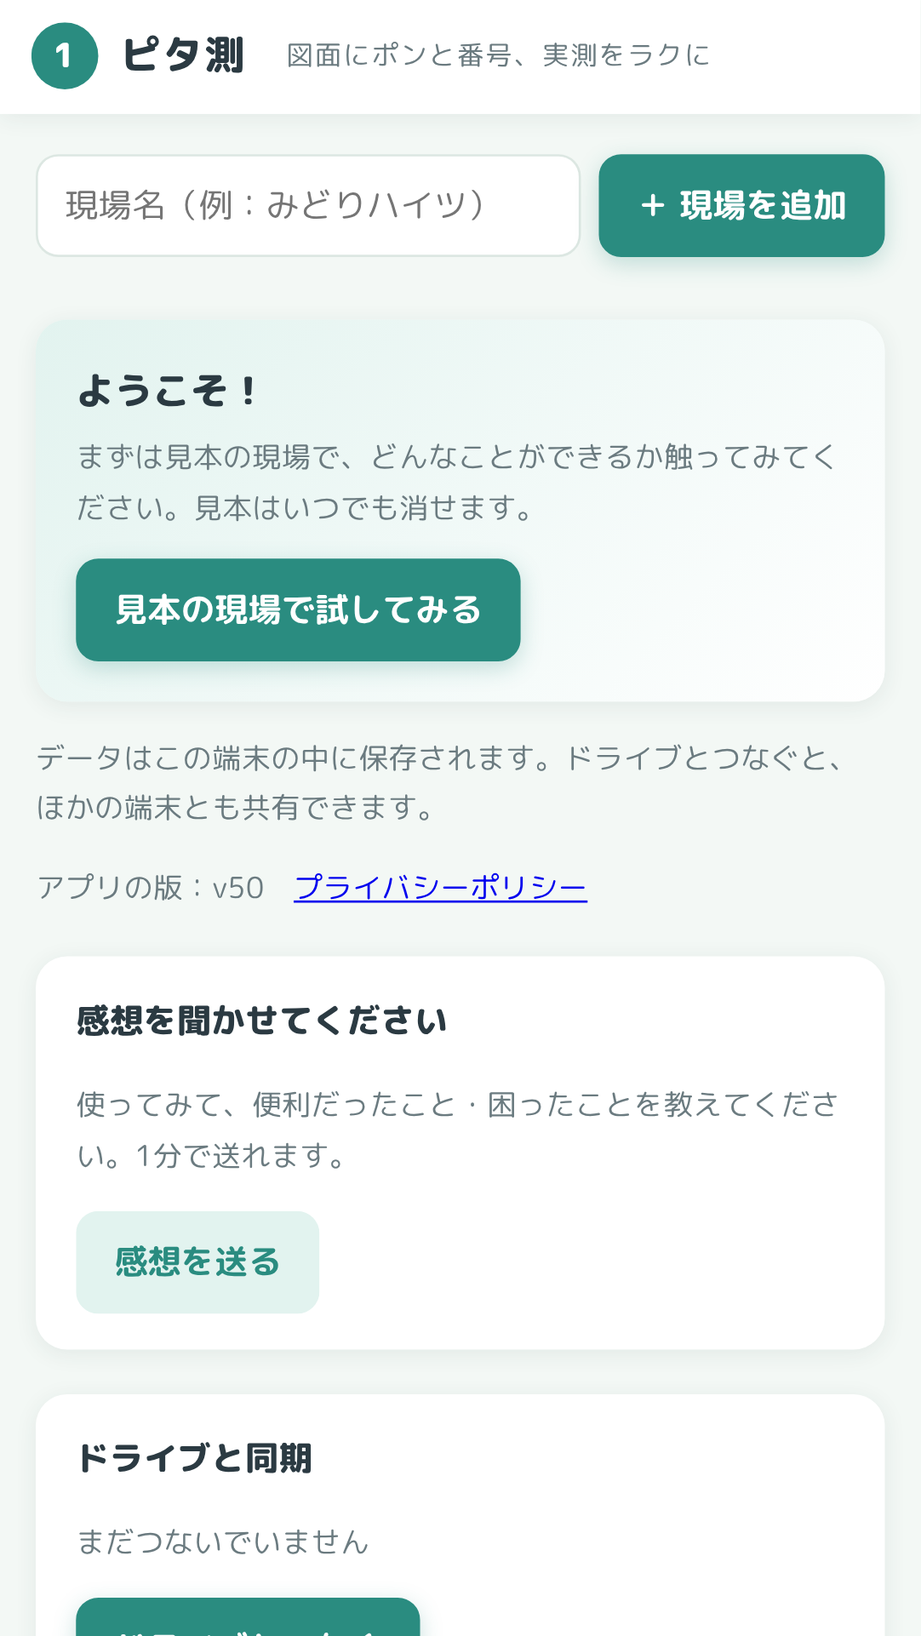
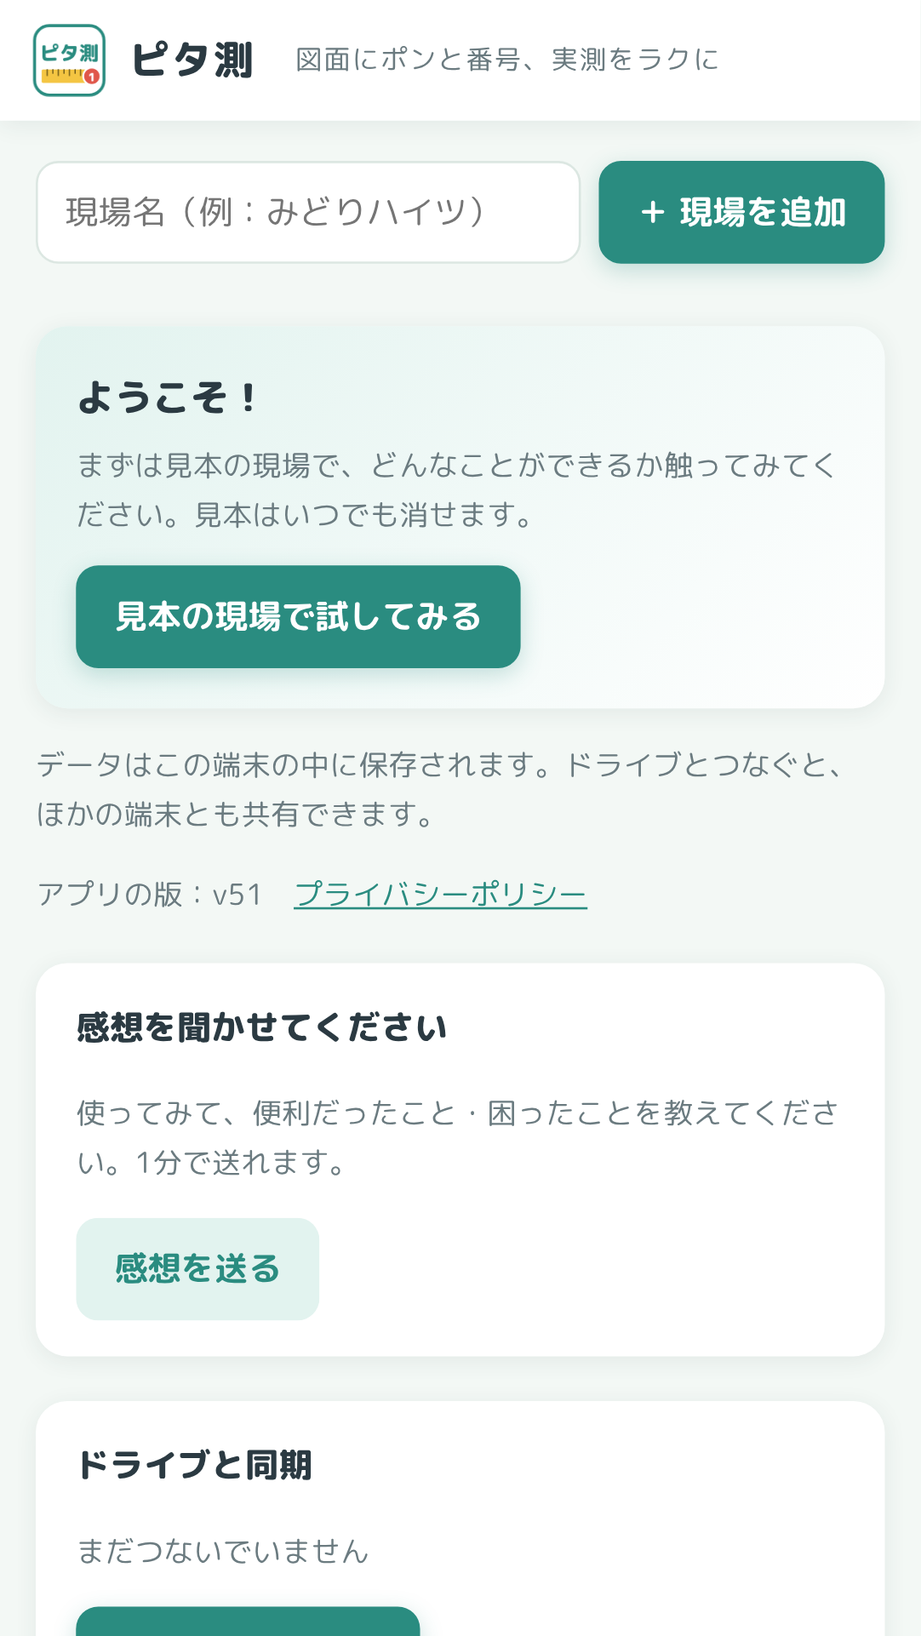
新しいアイコン（ピタ測の文字＋定規＋①）に変更。Google Play公開の準備：ストア用の画像・説明文・データの扱い・公開の手順書（play/）、プライバシーポリシーへのリンク（v51）
Claude-Session: https://claude.ai/code/session_01FaqSVyt5UKykhA6zFa1RRF

diff --git a/sw.js b/sw.js
@@ -1,11 +1,11 @@
 // 電波のない現場でも開けるように、アプリ本体と部品（PDF・Excel・書体）をスマホに保存しておく
 // 外部のサイトには頼らない（Googleドライブとの同期・感想の送信だけはネットを使う）
-const CACHE = 'jissokucho-v50';
+const CACHE = 'jissokucho-v51';
 const FONTS = 'jissokucho-fonts'; // 書体の文字ファイル（版が変わっても消さない）
 // 日本語の図面PDFで使われる文字の対応表
 const CMAPS = ['78-EUC-H', '78-EUC-V', '78-H', '78-RKSJ-H', '78-RKSJ-V', '78-V', '78ms-RKSJ-H', '78ms-RKSJ-V', '83pv-RKSJ-H', '90ms-RKSJ-H', '90ms-RKSJ-V', '90msp-RKSJ-H', '90msp-RKSJ-V', '90pv-RKSJ-H', '90pv-RKSJ-V', 'Add-H', 'Add-RKSJ-H', 'Add-RKSJ-V', 'Add-V', 'Adobe-Japan1-0', 'Adobe-Japan1-1', 'Adobe-Japan1-2', 'Adobe-Japan1-3', 'Adobe-Japan1-4', 'Adobe-Japan1-5', 'Adobe-Japan1-6', 'Adobe-Japan1-UCS2', 'EUC-H', 'EUC-V', 'Ext-H', 'Ext-RKSJ-H', 'Ext-RKSJ-V', 'Ext-V', 'H', 'Hankaku', 'Hiragana', 'Katakana', 'NWP-H', 'NWP-V', 'RKSJ-H', 'RKSJ-V', 'Roman', 'UniJIS-UCS2-H', 'UniJIS-UCS2-HW-H', 'UniJIS-UCS2-HW-V', 'UniJIS-UCS2-V', 'UniJIS-UTF16-H', 'UniJIS-UTF16-V', 'UniJIS-UTF32-H', 'UniJIS-UTF32-V', 'UniJIS-UTF8-H', 'UniJIS-UTF8-V', 'UniJIS2004-UTF16-H', 'UniJIS2004-UTF16-V', 'UniJIS2004-UTF32-H', 'UniJIS2004-UTF32-V', 'UniJIS2004-UTF8-H', 'UniJIS2004-UTF8-V', 'UniJISPro-UCS2-HW-V', 'UniJISPro-UCS2-V', 'UniJISPro-UTF8-V', 'UniJISX0213-UTF32-H', 'UniJISX0213-UTF32-V', 'UniJISX02132004-UTF32-H', 'UniJISX02132004-UTF32-V', 'V', 'WP-Symbol'];
 const FILES = [
-  './', 'index.html', 'style.css', 'store.js', 'sync.js', 'annot.js', 'demo.js', 'intro.html', 'privacy.html', 'app.js', 'manifest.webmanifest', 'icon.svg', 'icon-192.png', 'icon-512.png', 'icon-maskable-512.png',
+  './', 'index.html', 'style.css', 'store.js', 'sync.js', 'annot.js', 'demo.js', 'intro.html', 'privacy.html', 'app.js', 'manifest.webmanifest', 'favicon-48.png', 'apple-touch-icon.png', 'icon-192.png', 'icon-512.png', 'icon-maskable-512.png',
   'lib/pdfjs/pdf.min.js', 'lib/pdfjs/pdf.worker.min.js',
   ...CMAPS.map(n => `lib/pdfjs/cmaps/${n}.bcmap`),
   'lib/exceljs/exceljs.min.js', 'lib/fonts/fonts.css',

diff --git a/index.html b/index.html
@@ -7,8 +7,8 @@
 <meta name="apple-mobile-web-app-capable" content="yes">
 <meta name="apple-mobile-web-app-title" content="ピタ測">
 <link rel="manifest" href="manifest.webmanifest">
-<link rel="icon" href="icon.svg" type="image/svg+xml">
-<link rel="apple-touch-icon" href="icon-192.png">
+<link rel="icon" href="favicon-48.png" type="image/png">
+<link rel="apple-touch-icon" href="apple-touch-icon.png">
 <title>ピタ測</title>
 <link rel="stylesheet" href="lib/fonts/fonts.css">
 <link rel="stylesheet" href="style.css">
@@ -24,7 +24,7 @@
 <!-- ホーム：現場一覧 -->
 <section id="vHome" class="view">
   <header class="top">
-    <h1 class="brand"><i aria-hidden="true">1</i>ピタ測<small>図面にポンと番号、実測をラクに</small></h1>
+    <h1 class="brand"><img src="icon-192.png" alt="" width="34" height="34">ピタ測<small>図面にポンと番号、実測をラクに</small></h1>
   </header>
   <main class="pad stack">
     <div class="row">
@@ -38,7 +38,7 @@
       <button id="demoBtn" type="button" class="primary">見本の現場で試してみる</button>
     </div>
     <p class="note small">データはこの端末の中に保存されます。ドライブとつなぐと、ほかの端末とも共有できます。</p>
-    <p class="note small">アプリの版：<span id="appVer">v50</span>　<a href="privacy.html">プライバシーポリシー</a></p>
+    <p class="note small">アプリの版：<span id="appVer">v51</span>　<a href="privacy.html">プライバシーポリシー</a></p>
     <section class="card stack">
       <h2>感想を聞かせてください</h2>
       <p class="note">使ってみて、便利だったこと・困ったことを教えてください。1分で送れます。</p>

diff --git a/intro.html b/intro.html
@@ -6,7 +6,7 @@
 <meta name="theme-color" content="#2a8c80">
 <meta name="description" content="図面をタップして番号を打ち、階ごとの実測値を入れるだけ。ズレのチェック、写真、Excelの実測表までスマホ1台で。">
 <title>ピタ測｜現場の実測を、スマホ1台でラクに</title>
-<link rel="icon" href="icon.svg" type="image/svg+xml">
+<link rel="icon" href="favicon-48.png" type="image/png">
 <link rel="stylesheet" href="lib/fonts/fonts.css">
 <style>
 :root{
@@ -22,7 +22,7 @@ a{color:inherit}
 header.nav{position:sticky;top:0;z-index:5;background:rgba(243,248,245,.9);backdrop-filter:blur(8px)}
 header.nav .wrap{display:flex;align-items:center;justify-content:space-between;padding-block:12px}
 .logo{display:flex;align-items:center;gap:10px;font-weight:800;font-size:20px;text-decoration:none}
-.logo i{display:grid;place-items:center;width:34px;height:34px;border-radius:50%;background:var(--accent);color:#fff;font-style:normal}
+.logo img{width:34px;height:34px;display:block}
 .btn{display:inline-flex;align-items:center;justify-content:center;gap:8px;min-height:50px;padding:10px 24px;border-radius:999px;font-weight:800;text-decoration:none;transition:transform .1s}
 .btn:active{transform:scale(.97)}
 .btn.main{background:var(--accent);color:#fff;box-shadow:0 6px 18px rgba(42,140,128,.3)}
@@ -85,7 +85,7 @@ footer{color:var(--muted);font-size:13px;text-align:center;padding:20px 0 40px}
 
 <header class="nav">
   <div class="wrap">
-    <a class="logo" href="#"><i>1</i>ピタ測</a>
+    <a class="logo" href="#"><img src="icon-192.png" alt="" width="34" height="34">ピタ測</a>
     <a class="btn main small" href="./">無料で試す</a>
   </div>
 </header>

diff --git a/style.css b/style.css
@@ -21,7 +21,7 @@ body{background:var(--bg);color:var(--ink);font:15px/1.7 var(--f-ui);-webkit-tap
 .top h1{font-size:18px;font-weight:800;margin:0;flex:1;min-width:0;white-space:nowrap;overflow:hidden;text-overflow:ellipsis;letter-spacing:.04em}
 .top h1 small{font-size:12px;font-weight:400;color:var(--muted);margin-left:8px}
 .brand{display:inline-flex;align-items:center;gap:10px}
-.brand i{display:inline-grid;place-items:center;width:30px;height:30px;border-radius:50%;background:var(--accent);color:#fff;font:800 15px var(--f-num);font-style:normal}
+.brand img{width:34px;height:34px;display:block}
 .back{font-size:26px;line-height:1;padding:4px 12px;border:0;background:none;box-shadow:none}
 .pad{padding:18px 16px;padding-bottom:calc(env(safe-area-inset-bottom,0px) + 28px);max-width:720px;width:100%;margin:0 auto}
 .stack{display:flex;flex-direction:column;gap:14px}
@@ -193,3 +193,4 @@ dialog label{display:flex;flex-direction:column;gap:4px;font-size:12px;color:var
 .playgate{position:fixed;inset:0;z-index:1000;display:grid;place-items:center;padding:20px;background:var(--bg,#f3f8f5)}
 .playgate .card{max-width:420px;text-align:center;align-items:center}
 .btnlink{display:inline-block;padding:12px 22px;border-radius:14px;background:var(--accent);color:#fff;font-weight:800;text-decoration:none}
+.note a{color:var(--accent)}

diff --git a/privacy.html b/privacy.html
@@ -4,6 +4,7 @@
 <meta charset="utf-8">
 <meta name="viewport" content="width=device-width, initial-scale=1">
 <title>プライバシーポリシー｜ピタ測</title>
+<link rel="icon" href="favicon-48.png" type="image/png">
 <link rel="stylesheet" href="lib/fonts/fonts.css">
 <style>
   body{margin:0;background:#f3f8f5;color:#1f2a36;font-family:"M PLUS Rounded 1c","Hiragino Sans","Yu Gothic UI","Meiryo",sans-serif;line-height:1.8}

diff --git a/play/README.md b/play/README.md
@@ -1,0 +1,121 @@
+# ピタ測を Google Play で販売するための手順
+
+ピタ測は、ウェブ上のピタ測を Android アプリとして包む作り（TWA）で Play に出します。
+アプリの中身はウェブ版と同じなので、ウェブ版を直せば Play 版も自動で新しくなります（アプリの出し直しは不要）。
+
+アプリ側の準備（このリポジトリの中）は済んでいます。下の **【あなたがやること】** を上から順に進めてください。
+
+---
+
+## 0. 準備できているもの
+
+| もの | 場所 |
+|---|---|
+| アプリのアイコン（512×512、Android用の切り抜き対応版も） | `icon-512.png`、`icon-maskable-512.png` |
+| プライバシーポリシーのページ | `privacy.html`（【 】の所を埋める） |
+| ストアに出す紹介画像（1024×500） | `play/images/feature-graphic-1024x500.png` |
+| スマホの画面写真（3枚） | `play/images/phone-*.png` |
+| タブレットの画面写真（2枚） | `play/images/tablet-*.png` |
+| ストアの説明文の下書き | `play/listing.md` |
+| データ セーフティ（データの扱い）の答え方 | `play/data-safety.md` |
+| Play 版以外で開いた時に購入を案内する仕組み | `app.js` の `PLAY`（今は止めてある） |
+
+---
+
+## 1. 【あなたがやること】今どこで公開しているか確かめる
+
+1. パソコンのブラウザで https://github.com/ktrs0912-max/jissokucho を開く
+2. 上の「Settings」→ 左の「Pages」を開く
+3. 「Your site is live at ○○○」と出ていれば、その ○○○ が公開先です
+   - 多くの場合 `https://ktrs0912-max.github.io/jissokucho/` です
+   - 何も出ていなければ、「Branch」で `main`、フォルダ `/ (root)` を選んで「Save」すると公開されます
+
+> **大事**：このリポジトリは今「Public（誰でも見られる）」です。有料で売るなら、中身（ソースコード）を誰でもコピーできる状態は避けたいところです。
+> GitHub Pages を非公開のリポジトリで使うには GitHub の有料プラン（Pro、月4ドル程度）が必要です。
+> 代わりに Cloudflare Pages など、非公開リポジトリから無料で公開できる所へ移す方法もあります。どちらにするか決めてください（移す作業は手伝えます）。
+
+## 2. 【あなたがやること】Google Play の開発者登録
+
+1. https://play.google.com/console で開発者アカウントを作る（登録料 25ドル・1回だけ）
+2. 本人確認（身分証）を済ませる
+3. **有料アプリにするため、「お支払いプロファイル（販売者アカウント）」も作る**（銀行口座を登録）
+4. 個人のアカウントで新しく作った場合、**本番公開の前に「クローズド テスト」を 12人以上で 14日間** 行う決まりがあります。
+   テストしてくれる人（同業の知り合いなど）を 12人集めておいてください（Gmail アドレスが必要）。
+
+## 3. 【あなたがやること】Android アプリ（.aab）を作る
+
+PWABuilder（Microsoft の無料サービス）を使うと、ブラウザだけで作れます。
+
+1. https://www.pwabuilder.com を開き、公開先のURL（例：`https://ktrs0912-max.github.io/jissokucho/`）を入れて「Start」
+2. 「Package For Stores」→「Android」→「Generate Package」の横の「Options」を開き、次のように入れる
+
+   | 項目 | 入れる値 |
+   |---|---|
+   | Package ID | `io.github.ktrs0912max.pitasoku`（一度決めたら変えられません。独自ドメインを取るなら `jp.〇〇.pitasoku` など） |
+   | App name | `ピタ測 - 図面に番号を打つ実測アプリ` |
+   | Launcher name | `ピタ測` |
+   | App version / version code | `1.0.0` / `1` |
+   | Display mode | Standalone |
+   | Status bar color / Nav bar color | `#2a8c80` / `#ffffff` |
+   | Splash screen color | `#f3f8f5` |
+   | Signing key | **New**（新しく作る） |
+
+3. 「Generate」で zip ファイルができる。中に次のものが入っています
+   - `○○.aab` … Play に上げるアプリ本体
+   - `signing.keystore` と `signing-key-info.txt` … **アプリの鍵。なくすとアプリを更新できなくなります。** USBメモリやパスワード付きの場所など、2か所以上に大切に保管してください（GitHub には絶対に上げない）
+   - `assetlinks.json` … 次の「4」で使う
+
+## 4. 【あなたがやること】アプリとウェブを結びつける（assetlinks.json）
+
+Play のアプリがウェブ版を「自分のもの」として全画面で開くために、証明ファイルを **公開先の住所の一番上** に置きます。
+
+- 置く場所：`https://ktrs0912-max.github.io/.well-known/assetlinks.json`
+  - `jissokucho/` の下ではなく、**一番上** です。そのため GitHub に `ktrs0912-max.github.io` という名前のリポジトリをもう1つ作り、その中に `.well-known/assetlinks.json` を置いて Pages を有効にします
+  - 独自ドメインを使う場合は、そのドメインの一番上に置きます
+- 中身：PWABuilder が作った `assetlinks.json` に、**Play Console の「アプリの署名」に出る SHA-256 の指紋も追加** します（Play が鍵をかけ直すため、指紋が2つになります）。形は `play/assetlinks.example.json` を見てください
+- 置けたら https://developers.google.com/digital-asset-links/tools/generator で確かめられます
+
+うまく結びついていないと、アプリの上にブラウザのアドレス欄が出ます。
+
+## 5. 【あなたがやること】Play Console でアプリを作って公開する
+
+1. 「アプリを作成」→ 名前「ピタ測 - 図面に番号を打つ実測アプリ」、言語「日本語」、**「有料」** を選ぶ（後から無料→有料には変えられません）
+2. 「ストアの掲載情報」に `play/listing.md` の文と `play/images` の画像を入れる
+3. 「アプリのコンテンツ」で次を答える
+   - プライバシーポリシー：公開先の `privacy.html` のURL（例：`https://ktrs0912-max.github.io/jissokucho/privacy.html`）
+   - 広告：含まない
+   - アプリのアクセス権：制限なし（ログインなしで全部使える）
+   - コンテンツのレーティング：アンケートに答える（暴力などはすべて「いいえ」）
+   - ターゲット ユーザー：18歳以上
+   - データ セーフティ：`play/data-safety.md` のとおり
+4. 「価格」を決める（例：980円）
+5. 「テスト」→「クローズド テスト」に `.aab` を上げ、12人以上を招待して 14日間使ってもらう
+6. 14日たったら「本番」へ公開を申請する（審査は数日〜1週間ほど）
+
+## 6. 【公開した後】Play 版以外で開けないようにする
+
+Play で公開されたら、`app.js` の次の行を書き換えてください（言ってもらえれば私が直します）。
+
+```js
+const PLAY = { only: true, pkg: 'io.github.ktrs0912max.pitasoku', url: 'https://play.google.com/store/apps/details?id=io.github.ktrs0912max.pitasoku' };
+```
+
+こうすると、ブラウザで直接開いた人には「Google Play で販売しています」という案内が出て、使えなくなります。
+（Play 版から一度開いた端末は、その後ブラウザで開いても使えます。完全に防ぐ仕組みではありません）
+
+## 7. Googleドライブ同期について
+
+一般の人がドライブ同期を使えるようにするには、Google Cloud の「OAuth 同意画面」を「本番環境」にして、Google の確認を受ける必要があります。
+
+1. https://console.cloud.google.com でプロジェクト「jissokucho」を開く
+2. 「APIとサービス」→「OAuth 同意画面」で、アプリ名「ピタ測」、ロゴ（`icon-512.png`）、ホームページ（公開先のURL）、プライバシーポリシーのURL、承認済みドメイン（`github.io` または独自ドメイン）を入れる
+3. 「アプリを公開」を押す
+   - ピタ測は「このアプリが作ったファイルだけ」の権限（drive.file）なので、厳しい審査はありません
+   - 確認を受けないままだと、ログインの時に「このアプリは確認されていません」と出たり、使える人数が100人までになったりします
+
+---
+
+## 参考：ほかの売り方を選ぶ場合
+
+- **月額にしたい**：Play の定期購入の仕組み（Play Billing）をアプリに組み込む大きな作業になります
+- **ウェブ版も残して売りたい**：Play 版とは別に、ログインと支払いの仕組みが必要になります

diff --git a/play/listing.md b/play/listing.md
@@ -1,0 +1,75 @@
+# ストアの掲載情報（下書き）
+
+Play Console の「ストアの掲載情報」にそのまま貼れるようにしてあります。文字数は Play の上限以内です。
+
+## アプリ名（30文字以内）
+
+```
+ピタ測 - 図面に番号を打つ実測アプリ
+```
+
+## 簡単な説明（80文字以内）
+
+```
+施工図PDFをタップして①②③と番号を打ち、階ごとの実測値を記録。ズレ確認・Excel出力も。
+```
+
+## 詳しい説明（4000文字以内）
+
+```
+ピタ測は、現場の「実測」をラクにするアプリです。
+施工図のPDFをタップして①②③…と番号を打ち、その番号ごとに階ごとの実測値を入れていくだけ。紙の図面と野帳、Excelへの打ち直しをまとめて置きかえます。
+
+■ こんな方に
+・手摺、内装、設備、サッシなど、図面を見ながら寸法を測るお仕事の方
+・マンションのバルコニーや廊下など、同じ形が何階も続く現場の実測に
+・測った値をExcelにまとめ直す手間を減らしたい方
+
+■ できること
+【図面に番号を打つ】
+・施工図のPDFや、図面を撮った写真を取り込めます
+・測る場所をタップすると①②③…と番号が付きます
+・2本指で拡大しても、細かい寸法の文字までくっきり表示
+・図面の文字から符号（BT-1、KT-2 など）と階を読み取り、まとめて登録できます
+
+【階ごとの実測表】
+・番号×階の表に、測った値をどんどん入れていけます
+・設計値を入れると、設計との差を自動で表示
+・他の階と大きくズレている値は色で知らせるので、測り間違いにその場で気づけます
+
+【写真と書き込み】
+・番号ごと・階ごとに現場写真を撮って残せます
+・図面にも写真にも、線・文字・寸法（コの字）を書き込めます
+・Xiaomi Pad などの充電式タッチペンに対応。ペンで書き、指で図面を動かせます（ペンで書いている間は手のひらに反応しません）
+
+【Excelで保存】
+・実測値記入表を、番号入りの図面つきでExcelに書き出せます
+・Googleドライブに保存すれば、事務所のパソコンでもすぐ開けます
+
+【電波のない現場でも】
+・一度開けば、電波のない現場でも使えます
+・データは端末の中に保存されます
+・Googleドライブとつなぐと、スマホ・タブレット・パソコンで同じデータを使えます
+
+■ はじめての方へ
+最初の画面の「見本の現場で試してみる」で、どんなことができるかすぐに試せます。
+
+■ データについて
+作者のサーバーにデータを送ることはありません。図面・実測値・写真は端末の中と、つないだ場合はご自身のGoogleドライブだけに保存されます。
+```
+
+## 分類
+
+- アプリのカテゴリ：**ビジネス**（または「仕事効率化」）
+- タグ（候補）：建設、測定、図面、仕事効率化
+
+## 画像
+
+| 種類 | ファイル | Play の決まり |
+|---|---|---|
+| アプリのアイコン | `../icon-512.png` | 512×512 PNG |
+| フィーチャー グラフィック | `images/feature-graphic-1024x500.png` | 1024×500 |
+| スマホのスクリーンショット | `images/phone-1-home.png`、`phone-2-draw.png`、`phone-3-table.png` | 2〜8枚 |
+| 10インチ タブレットのスクリーンショット | `images/tablet-1-draw.png`、`tablet-2-draw-portrait.png` | タブレットで目立たせたい場合 |
+
+7インチ タブレット用にも同じタブレットの画像を使えます。

diff --git a/play/data-safety.md b/play/data-safety.md
@@ -1,0 +1,35 @@
+# データ セーフティ（データの扱い）の答え方
+
+Play Console の「アプリのコンテンツ」→「データ セーフティ」で聞かれることへの答えの案です。
+内容は `privacy.html` と合わせてあります。最終的な判断はご自身で確認してください。
+
+## データの収集と共有
+
+**「アプリは、必須のユーザーデータ タイプを収集または共有しますか？」→ はい**
+
+理由：「感想を送る」で、入力された内容が作者（Googleフォーム）に届くためです。
+（図面・実測値・写真は、作者には届きません。Googleドライブへの保存は、利用者が自分で操作して自分のドライブに保存するもので、作者は受け取りません。）
+
+**「収集するデータはすべて転送中に暗号化されますか？」→ はい**（すべて https で送っています）
+
+**「ユーザーがデータの削除をリクエストする方法を提供していますか？」→ はい**（プライバシーポリシーの連絡先に依頼）
+
+## 収集するデータの種類
+
+| データの種類 | 収集 | 共有 | 任意か | 目的 |
+|---|---|---|---|---|
+| 個人情報 → メールアドレス（感想の「連絡先」） | する | しない | 任意 | デベロッパーとのやり取り |
+| アプリのアクティビティ → その他のユーザー作成コンテンツ（感想の文章） | する | しない | 任意 | アプリの機能（改善のため）、デベロッパーとのやり取り |
+
+ほかの項目（位置情報、写真や動画、ファイル、連絡先、端末のIDなど）は **収集しない** を選びます。
+写真や図面ファイルは端末の中にしか保存されず、アプリから作者へは送られないためです。
+
+> メモ：Googleドライブとの同期で、写真や図面がご自身のドライブに送られる点を「収集」に含めるべきか迷う場合は、
+> 「写真や動画 → 写真」「ファイルとドキュメント」を「収集する／任意／アプリの機能」として申告しておくと安全です
+> （申告が多すぎることは問題になりにくく、少なすぎると指摘されることがあります）。
+
+## そのほかの質問
+
+- 広告：含まない
+- 位置情報：使わない
+- アプリのアクセス権：ログインなしで全部の機能を使える
